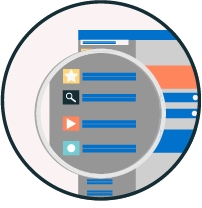
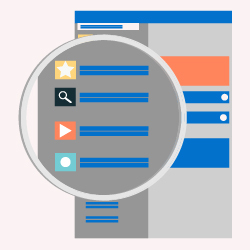
Imagenes de la pagina de doctores

diff --git a/application/views/index/index.php b/application/views/index/index.php
@@ -58,11 +58,8 @@
 							<i class="fa fa-plus fa-3x"></i>
 						</div>
 					</div>
-					<img src="<?php echo base_url()?>public/libs/pagina/img/portfolio/composicion_paciente.png" class="img-responsive" alt="">
+					<img src="<?php echo base_url()?>public/libs/pagina/img/portfolio/composicion_paciente.jpg" class="img-responsive" alt="">
 				</a>
-				<div class="portfolio-caption">
-					<p class="text-muted">Para el Paciente</p>
-				</div>
 			</div>
 			<div class="col-md-4 col-sm-6 portfolio-item">
 				<a href="#portfolioModal2" class="portfolio-link" data-toggle="modal">
@@ -71,11 +68,8 @@
 							<i class="fa fa-plus fa-3x"></i>
 						</div>
 					</div>
-					<img src="<?php echo base_url()?>public/libs/pagina/img/portfolio/composision_doctor.png" class="img-responsive" alt="">
+					<img src="<?php echo base_url()?>public/libs/pagina/img/portfolio/composision_doctor.jpg" class="img-responsive" alt="">
 				</a>
-				<div class="portfolio-caption">
-					<p class="text-muted">Para el Médico</p>
-				</div>
 			</div>
 			<div class="col-md-4 col-sm-6 portfolio-item">
 				<a href="#portfolioModal3" class="portfolio-link" data-toggle="modal">
@@ -84,11 +78,8 @@
 							<i class="fa fa-plus fa-3x"></i>
 						</div>
 					</div>
-					<img src="<?php echo base_url()?>public/libs/pagina/img/portfolio/composicion_recepcion.png" class="img-responsive" alt="">
+					<img src="<?php echo base_url()?>public/libs/pagina/img/portfolio/composicion_recepcion.jpg" class="img-responsive" alt="">
 				</a>
-				<div class="portfolio-caption">
-					<p class="text-muted">Para la Recepcionista</p>
-				</div>
 			</div>                
 		</div>
 	</div>
@@ -345,7 +336,7 @@
 				<div class="col-lg-8 col-lg-offset-2">
 					<div class="modal-body">
 						<h2>Paciente</h2>
-						<img class="img-responsive" src="<?php echo base_url()?>public/libs/pagina/img/portfolio/composicion_paciente.png" alt="">
+						<img class="img-responsive" src="<?php echo base_url()?>public/libs/pagina/img/portfolio/composicion_paciente_1.jpg" alt="">
 						<!--<p>Use this area to describe your project. Lorem ipsum dolor sit amet, consectetur adipisicing elit. Est blanditiis dolorem culpa incidunt minus dignissimos deserunt repellat aperiam quasi sunt officia expedita beatae cupiditate, maiores repudiandae, nostrum, reiciendis facere nemo!</p>
 						<p>
 							<strong>Want these icons in this portfolio item sample?</strong>You can download 60 of them for free, courtesy of <a href="https://getdpd.com/cart/hoplink/18076?referrer=bvbo4kax5k8ogc">RoundIcons.com</a>, or you can purchase the 1500 icon set <a href="https://getdpd.com/cart/hoplink/18076?referrer=bvbo4kax5k8ogc">here</a>.</p>
@@ -375,7 +366,7 @@
 				<div class="col-lg-8 col-lg-offset-2">
 					<div class="modal-body">
 						<h2>Médico</h2>						
-						<img class="img-responsive img-centered" src="<?php echo base_url()?>public/libs/pagina/img/portfolio/composision_doctor.png" alt="">
+						<img class="img-responsive img-centered" src="<?php echo base_url()?>public/libs/pagina/img/portfolio/composision_doctor_1.jpg" alt="">
 						<!--<p><a href="http://designmodo.com/startup/?u=787">Startup Framework</a> is a website builder for professionals. Startup Framework contains components and complex blocks (PSD+HTML Bootstrap themes and templates) which can easily be integrated into almost any design. All of these components are made in the same style, and can easily be integrated into projects, allowing you to create hundreds of solutions for your future projects.</p>
 						<p>You can preview Startup Framework <a href="http://designmodo.com/startup/?u=787">here</a>.</p>-->
 						<button type="button" class="btn btn-primary" data-dismiss="modal"><i class="fa fa-times"></i> Cerrar</button>
@@ -399,7 +390,7 @@
 				<div class="col-lg-8 col-lg-offset-2">
 					<div class="modal-body">
 						<h2>Recepción</h2>
-						<img class="img-responsive img-centered" src="<?php echo base_url()?>public/libs/pagina/img/portfolio/composicion_recepcion.png" alt="">
+						<img class="img-responsive img-centered" src="<?php echo base_url()?>public/libs/pagina/img/portfolio/composicion_recepcion_1.jpg" alt="">
 						<!--<p>Treehouse is a free PSD web template built by <a href="https://www.behance.net/MathavanJaya">Mathavan Jaya</a>. This is bright and spacious design perfect for people or startup companies looking to showcase their apps or other projects.</p>
 						<p>You can download the PSD template in this portfolio sample item at <a href="http://freebiesxpress.com/gallery/treehouse-free-psd-web-template/">FreebiesXpress.com</a>.</p>-->
 						<button type="button" class="btn btn-primary" data-dismiss="modal"><i class="fa fa-times"></i> Cerrar</button>
